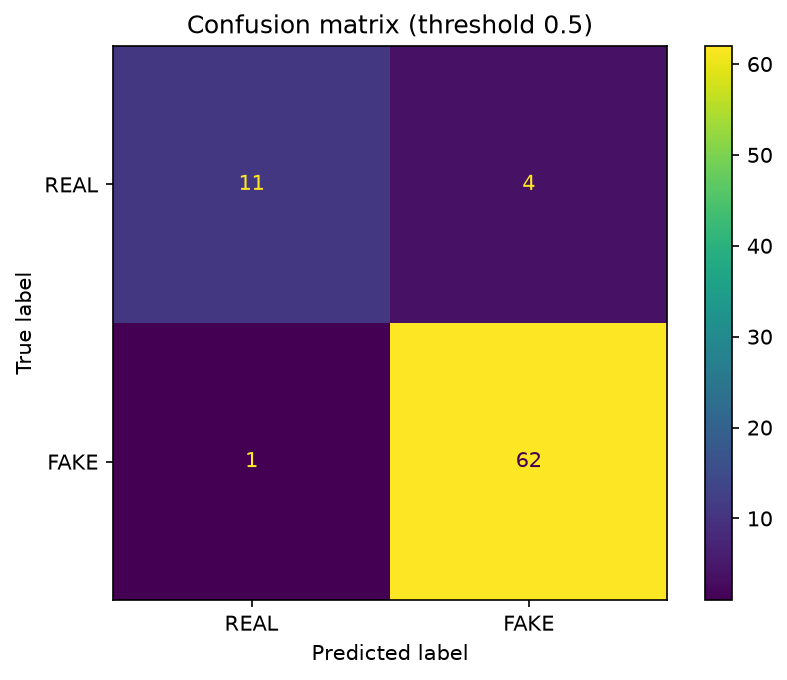
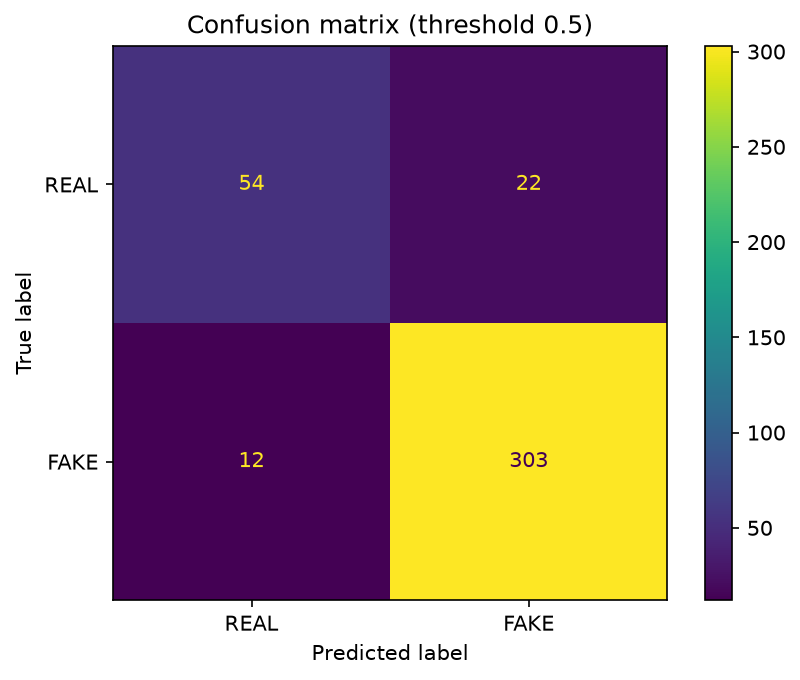
Evaluate on pooled cross-validated predictions

diff --git a/src/evaluate.py b/src/evaluate.py
@@ -1,4 +1,4 @@
-"""Evaluate saved validation predictions: metrics, plots, worst errors."""
+"""Evaluate pooled out-of-fold predictions: metrics, plots, worst errors."""
 import json
 from pathlib import Path
 
@@ -10,19 +10,21 @@ import pandas as pd
 from sklearn.metrics import (ConfusionMatrixDisplay, RocCurveDisplay,
                              confusion_matrix, log_loss, roc_auc_score)
 
-PRED = Path("outputs/val_predictions.csv")
+PRED = sorted(Path("outputs").glob("val_predictions_fold*.csv"))
 OUT = Path("results")
-BASE_RATE = 0.80  # fake rate in the training set
 
 
 def main():
     OUT.mkdir(exist_ok=True)
-    df = pd.read_csv(PRED)
+    if len(PRED) != 5:
+        raise SystemExit(f"Expected 5 fold files, found {len(PRED)}. Run train.py for every fold first.")
+    df = pd.concat(pd.read_csv(f) for f in PRED)
     vid = (df.groupby("video")
              .agg(target=("target", "first"), prob=("prob", "mean"),
                   n_crops=("prob", "size"))
              .reset_index())
 
+    base_rate = vid.target.mean()  # fake share of the evaluated videos
     pred = (vid.prob >= 0.5).astype(int)
     tn, fp, fn, tp = confusion_matrix(vid.target, pred).ravel()
     metrics = {
@@ -30,7 +32,7 @@ def main():
         "real_videos": int((vid.target == 0).sum()),
         "video_logloss": round(log_loss(vid.target, vid.prob), 4),
         "constant_baseline_logloss": round(
-            log_loss(vid.target, np.full(len(vid), BASE_RATE)), 4),
+            log_loss(vid.target, np.full(len(vid), base_rate)), 4),
         "video_auc": round(roc_auc_score(vid.target, vid.prob), 4),
         "accuracy_at_0.5": round((tn + tp) / len(vid), 4),
         "real_recall": round(tn / (tn + fp), 4),
@@ -40,7 +42,7 @@ def main():
     (OUT / "metrics.json").write_text(json.dumps(metrics, indent=2))
 
     RocCurveDisplay.from_predictions(vid.target, vid.prob)
-    plt.title("Validation ROC (per video)")
+    plt.title("Cross-validated ROC (per video, 5 folds pooled)")
     plt.savefig(OUT / "roc.png", dpi=150, bbox_inches="tight")
     plt.close()
 
